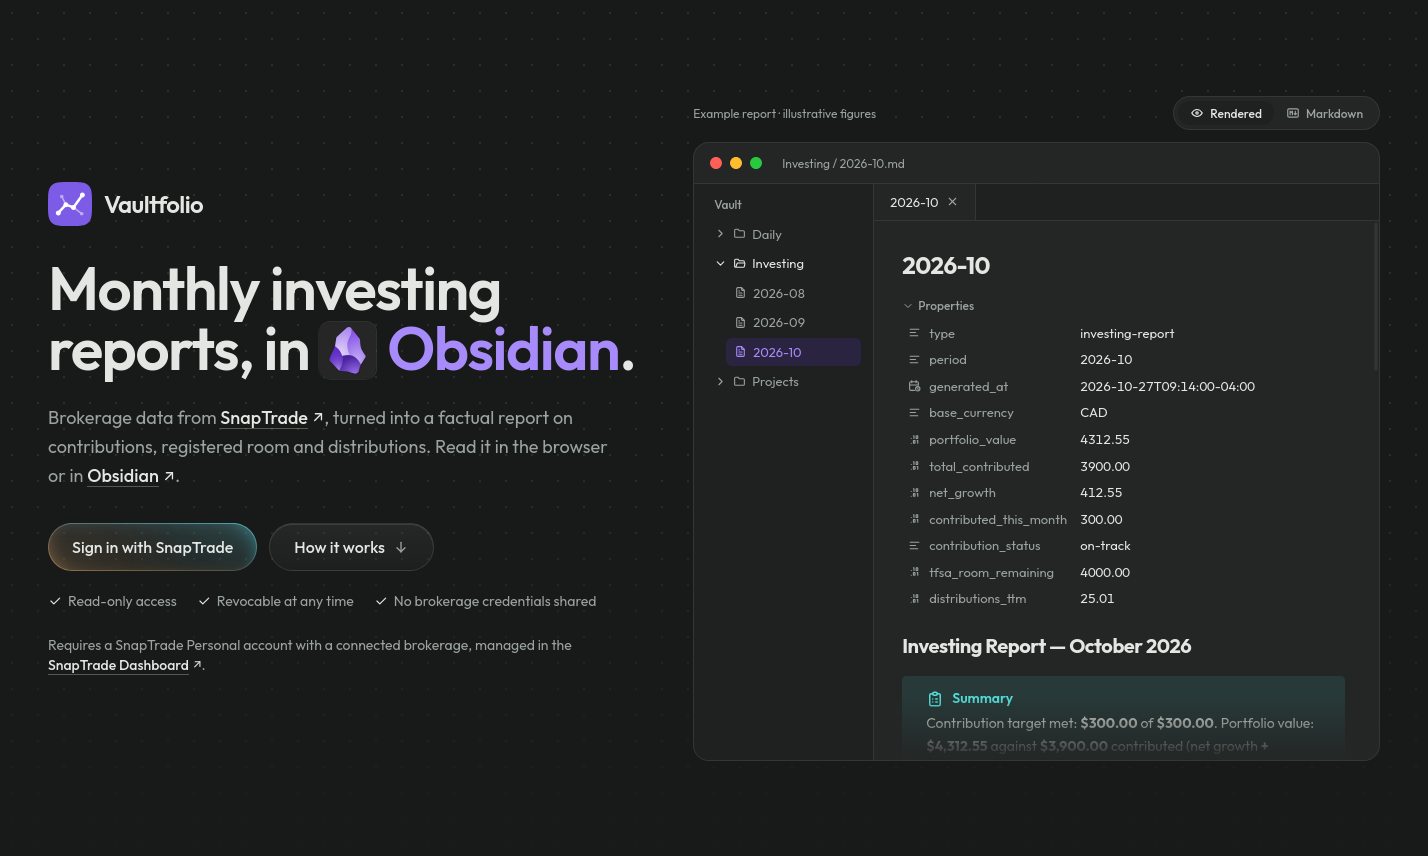
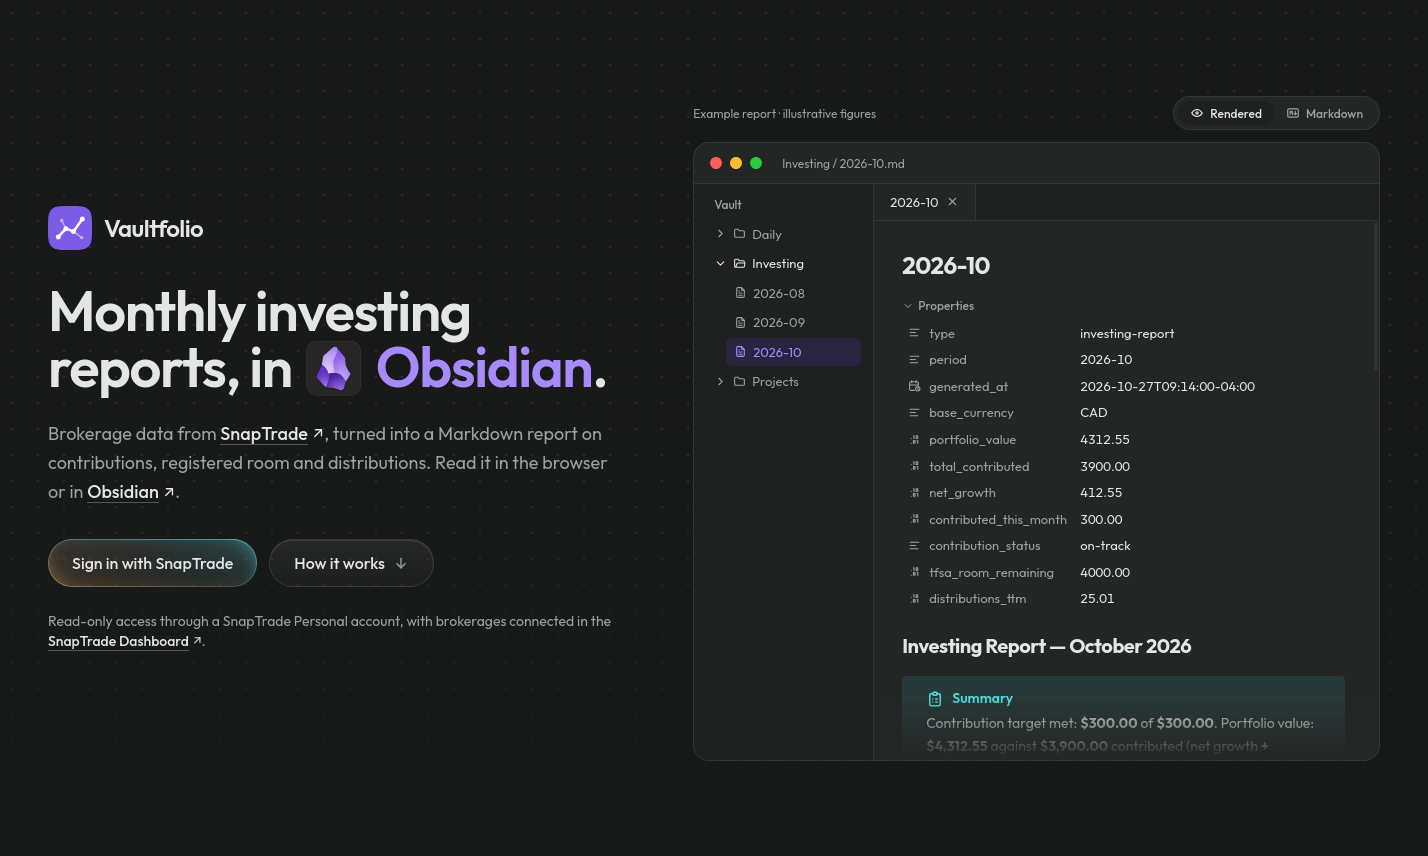
docs: rewrite readme and polish landing hero

Changed region(s): [[0.0308, 0.486, 0.4314, 0.7897], [0.0308, 0.2126, 0.4314, 0.4556]]

diff --git a/src/app/(site)/page.tsx b/src/app/(site)/page.tsx
@@ -6,7 +6,6 @@ import {
   TbArrowRight,
   TbBuildingBank,
   TbCalendarCheck,
-  TbCheck,
   TbCoins,
   TbEyeCheck,
   TbFileAnalytics,
@@ -186,30 +185,16 @@ function IconBadge({ Icon }: { Icon: IconType }) {
 // app), so the actions are always the signed-out ones.
 function HeroButtons() {
   return (
-    <>
-      <div className="mt-8 flex flex-wrap items-center justify-center gap-3 lg:justify-start">
-        <SignInLink />
-        <a href="#how-it-works" className={`group ${large(buttonGlass)}`}>
-          How it works
-          <TbArrowDown
-            aria-hidden
-            className="text-muted transition-transform group-hover:translate-y-0.5 motion-reduce:transition-none"
-          />
-        </a>
-      </div>
-      <ul className="mt-5 flex flex-wrap justify-center gap-x-5 gap-y-2 text-sm text-muted lg:justify-start">
-        {[
-          "Read-only access",
-          "Revocable at any time",
-          "No brokerage credentials shared",
-        ].map((point) => (
-          <li key={point} className="inline-flex items-center gap-1.5">
-            <TbCheck aria-hidden className="text-foreground" />
-            {point}
-          </li>
-        ))}
-      </ul>
-    </>
+    <div className="mt-8 flex flex-wrap items-center justify-center gap-3 lg:justify-start">
+      <SignInLink />
+      <a href="#how-it-works" className={`group ${large(buttonGlass)}`}>
+        How it works
+        <TbArrowDown
+          aria-hidden
+          className="text-muted transition-transform group-hover:translate-y-0.5 motion-reduce:transition-none"
+        />
+      </a>
+    </div>
   );
 }
 
@@ -258,7 +243,7 @@ export default function Home({ searchParams }: PageProps<"/">) {
                 Vaultfolio
               </span>
             </p>
-            <h1 className="animate-rise motion-reduce:animate-none [animation-delay:80ms] text-4xl font-semibold tracking-tight text-balance sm:text-5xl xl:text-6xl">
+            <h1 className="animate-rise motion-reduce:animate-none [animation-delay:80ms] text-4xl font-semibold tracking-tight text-balance sm:text-5xl xl:text-[3.5rem]">
               Monthly investing reports, in{" "}
               {/* Obsidian's app icon, exported unmodified from obsidian.md. */}
               <span className="whitespace-nowrap">
@@ -269,7 +254,7 @@ export default function Home({ searchParams }: PageProps<"/">) {
                   height={512}
                   unoptimized
                   loading="eager"
-                  className="mr-[0.18em] inline-block size-[0.95em] rounded-[19.5%] align-[-0.14em] ring-1 ring-white/10"
+                  className="mr-[0.28em] ml-[0.1em] inline-block size-[0.95em] rounded-[19.5%] align-[-0.14em] ring-1 ring-white/10"
                 />
                 <span className="text-accent">Obsidian</span>.
               </span>
@@ -277,8 +262,8 @@ export default function Home({ searchParams }: PageProps<"/">) {
             <p className="mx-auto mt-6 max-w-xl animate-rise motion-reduce:animate-none [animation-delay:160ms] text-lg leading-relaxed text-muted lg:mx-0">
               Brokerage data from{" "}
               <ExternalLink href={SNAPTRADE_SITE_URL}>SnapTrade</ExternalLink>,
-              turned into a factual report on contributions, registered room and
-              distributions. Read it in the browser or in{" "}
+              turned into a Markdown report on contributions, registered room
+              and distributions. Read it in the browser or in{" "}
               <ExternalLink href={OBSIDIAN_SITE_URL}>Obsidian</ExternalLink>.
             </p>
 
@@ -290,8 +275,8 @@ export default function Home({ searchParams }: PageProps<"/">) {
             </div>
 
             <p className="mx-auto mt-6 max-w-xl animate-rise motion-reduce:animate-none [animation-delay:320ms] text-sm text-muted lg:mx-0">
-              Requires a SnapTrade Personal account with a connected brokerage,
-              managed in the <SnapTradeLink />.
+              Read-only access through a SnapTrade Personal account, with
+              brokerages connected in the <SnapTradeLink />.
             </p>
           </div>
 

diff --git a/README.md b/README.md
@@ -1,43 +1,59 @@
-# Vaultfolio
+<p align="center">
+  <img src="src/app/icon.svg" width="88" alt="Vaultfolio logo">
+</p>
 
-Vaultfolio turns SnapTrade brokerage data into structured Markdown investing reports, viewable in the browser and synced into an Obsidian vault. It is a SnapTrade OAuth app: SnapTrade Personal users grant read-only access to their accounts.
+<h1 align="center">Vaultfolio</h1>
 
-Current status: SnapTrade sign-in, account overview, sign-out and disconnect (Phase 1). A full reviewer guide covering architecture, security decisions and tradeoffs follows in Phase 5.
+<p align="center">
+  <strong>Your investments, one Markdown note a month.</strong><br>
+  Brokerage data from <a href="https://snaptrade.com">SnapTrade</a>, turned into a clear monthly report in Markdown. Read it in the browser or sync it into <a href="https://obsidian.md">Obsidian</a>.
+</p>
 
-## Requirements
+![Vaultfolio landing page with an example report open in an Obsidian window](docs/images/landing.png)
 
-- Node.js 24 or later
-- A Neon Postgres database (a separate branch for local development)
-- A SnapTrade OAuth app with these redirect URIs registered exactly:
-  - `http://127.0.0.1:3000/oauth/snaptrade/callback`
-  - `https://<deployment>/oauth/snaptrade/callback`
+## What each report covers
 
-## Local setup
+- **This month:** deposits, purchases and distributions, plus progress toward a monthly contribution target.
+- **Growth:** total contributed against current value, in dollars.
+- **TFSA, RRSP and FHSA room:** contributions this year, room remaining, and a warning before going over.
+- **Distributions:** every payment over the past year, and an estimate for the next.
 
-1. Install dependencies: `npm install`
-2. Create `.env.local` from `.env.example` and set each value. `SESSION_SECRET` and `TOKEN_ENCRYPTION_KEY` are 32 random bytes each: `openssl rand -base64 32`.
-3. Apply the database migrations: `npm run db:migrate`
-4. Start the app: `npm run dev`, then open `http://127.0.0.1:3000`.
+Reports state facts and never recommend trades. Every setting is optional: a report is complete from the first sign-in, and settings only add detail.
 
-The app is served on `127.0.0.1`, not `localhost`. Cookies are host-specific, so a callback that arrives on a different host than the sign-in started from fails the state check.
+## Get started
 
-## Scripts
+1. Open [Vaultfolio](https://DEPLOYMENT.vercel.app) and choose **Sign in with SnapTrade**.
+2. Approve read-only access in SnapTrade. A SnapTrade Personal account with at least one connected brokerage is needed; every connected brokerage is included.
+3. Open **Reports**. Each month can be copied as Markdown, or a whole year downloaded as a zip.
 
-| Script                | Purpose                                            |
-| --------------------- | -------------------------------------------------- |
-| `npm run dev`         | Development server on 127.0.0.1:3000               |
-| `npm run build`       | Production build                                   |
-| `npm run check`       | Formatting check, lint, type check and tests       |
-| `npm test`            | Unit tests (Vitest)                                |
-| `npm run db:generate` | SQL migration from changes to `src/db/schema.ts`   |
-| `npm run db:migrate`  | Apply migrations to the database in `DATABASE_URL` |
+## Obsidian
 
-## Deployment (Vercel)
+1. Download the plugin from Vaultfolio and unzip it into the vault's `.obsidian/plugins/` folder.
+2. Enable **Vaultfolio** under Settings → Community plugins, then choose **Connect**.
+3. Reports appear in `Investing/` and update on startup or with **Vaultfolio: Sync now**.
 
-- Neon is added through the Vercel Marketplace, which sets `DATABASE_URL`.
-- The remaining variables from `.env.example` are set in Project Settings → Environment Variables, with values different from local development.
-- Migrations run manually against the production database (`npm run db:migrate` with the production `DATABASE_URL`), not during the build.
+Each report starts with frontmatter (`portfolio_value`, `tfsa_room_remaining` and more), ready for Dataview queries.
 
-## Known issues
+## Good to know
 
-- `npm audit` reports moderate advisories in `esbuild` through `drizzle-kit`. The advisory affects esbuild's development server, which drizzle-kit does not start, and drizzle-kit is a development-only tool that is not deployed.
+- **Read-only.** Vaultfolio cannot place trades, and brokerage passwords never reach it.
+- **Nothing stored.** Reports are built on request from live data. [SECURITY.md](SECURITY.md) covers how access is protected.
+- **No currency conversion.** Amounts in different currencies are kept separate rather than converted.
+- **One day behind.** SnapTrade syncs transactions once a day, so the latest day may not appear yet.
+
+## Run it locally
+
+Requires Node.js 24, a Postgres database (Neon) and a SnapTrade OAuth app with `http://127.0.0.1:3000/oauth/snaptrade/callback` registered.
+
+```bash
+npm install
+cp .env.example .env.local   # then fill in each value
+npm run db:migrate
+npm run dev                  # http://127.0.0.1:3000
+```
+
+Use `127.0.0.1`, not `localhost`, so the sign-in cookie matches the callback. `npm run check` runs formatting, lint, type checking and tests. Setting `VAULTFOLIO_MOCK_DATA=full` in `.env.local` replaces SnapTrade data with generated accounts for testing (also `us`, `sandbox` or `empty`); production builds ignore it.
+
+---
+
+<p align="center"><sub>Open source under the <a href="LICENSE">MIT License</a>. For information only. Not financial advice.</sub></p>

diff --git a/SECURITY.md b/SECURITY.md
@@ -1,0 +1,62 @@
+# Security
+
+Vaultfolio reads brokerage data on a user's behalf, so it is built to hold as little as possible and to protect what it does hold.
+
+## In short
+
+- **Read-only.** Vaultfolio asks SnapTrade only for `openid email read`. It has no trade access and calls no order endpoints.
+- **No brokerage passwords.** Brokerages connect through SnapTrade; Vaultfolio never sees their credentials.
+- **No brokerage data stored.** Reports are generated on request. The database holds only the account identity, encrypted SnapTrade tokens, settings, and hashed session and plugin tokens.
+- **Secrets stay on the server.** The client secret and SnapTrade tokens never reach the browser or the Obsidian plugin.
+- **Access can be removed at any time.** Disconnect revokes the SnapTrade grant, signs out every session and unlinks every vault.
+
+## Sign-in
+
+Sign-in uses SnapTrade's OAuth authorization code flow with PKCE.
+
+- **PKCE (S256):** an intercepted authorization code cannot be exchanged without the matching verifier.
+- **`state`:** checked at the callback, so a sign-in the browser did not start is rejected (login CSRF).
+- **`nonce`:** required in the ID token, so a token from another sign-in cannot be replayed.
+- **Flow cookie:** `state`, the verifier and `nonce` are kept in an encrypted, httpOnly cookie that lasts 10 minutes, is sent only to the callback, and is deleted after one use.
+- **ID token:** verified with `jose` (RS256 signature from SnapTrade's published keys, plus issuer, audience, expiry and nonce). Users are identified by `sub`, and an email is used only when it is verified.
+- **Issuer checks:** endpoints come from SnapTrade's discovery document with the issuer pinned, and the callback's `iss` is checked (RFC 9207), which prevents identity-provider mix-up.
+
+## Sessions
+
+- The session cookie holds a random token; only its SHA-256 hash is stored, so a database leak gives no usable sessions.
+- A fresh session is issued at every sign-in (prevents session fixation).
+- The cookie is `__Host-` prefixed, httpOnly, Secure and SameSite=Lax.
+- Every page and route checks the session itself, not only middleware.
+- Sign-out and disconnect check the request's `Origin` (prevents cross-site requests).
+- Pages can't be framed (prevents clickjacking), OAuth codes are kept out of `Referer`, and financial pages are not cached.
+
+## SnapTrade tokens
+
+- **Encrypted at rest** with AES-256-GCM, a fresh IV each time, and the user and field bound to each value, so a ciphertext moved to another row fails to decrypt.
+- **Refresh-token rotation** happens under a database row lock, so two simultaneous refreshes cannot spend the same token and end the grant.
+- **On a 401**, the token is refreshed and the request retried once; if that fails, the tokens are deleted and the user signs in again.
+- **Sent only to SnapTrade.** The API client refuses any host other than `api.snaptrade.com`.
+- **Revoked when replaced or disconnected.** Local tokens are deleted even if SnapTrade's revocation request fails.
+- **Never logged.** Logs record status codes and error types only, never response bodies, codes or tokens.
+
+## Obsidian plugin
+
+The plugin never holds SnapTrade tokens. It pairs with a short-lived, single-purpose token instead.
+
+- **Pairing works like PKCE.** The plugin keeps a random verifier in memory and opens Vaultfolio with its hash. The one-time code that comes back (valid 5 minutes) is useless without the verifier, and a wrong verifier burns it.
+- **Plugin tokens (`vfp_…`) can only download reports.** They are stored hashed, listed with their last use in Settings, revocable there or from the plugin, and revoked when SnapTrade is disconnected.
+- **Treated as low-trust.** Plugin settings live in the vault, which may be synced or committed to git, so nothing more sensitive is kept there.
+
+## Where to look
+
+| Area                                  | Code                                                                                     |
+| ------------------------------------- | ---------------------------------------------------------------------------------------- |
+| OAuth client, ID token checks         | `src/lib/snaptrade/oauth.ts`, `src/lib/snaptrade/discovery.ts`                           |
+| Callback, flow cookie                 | `src/lib/auth/callback.ts`, `src/lib/auth/flow-cookie.ts`                                |
+| Sessions, request checks              | `src/lib/auth/session.ts`, `src/lib/auth/http.ts`, `next.config.ts`                      |
+| Token encryption, refresh, revocation | `src/lib/crypto/aes-gcm.ts`, `src/lib/snaptrade/tokens.ts`, `src/lib/snaptrade/grant.ts` |
+| Plugin pairing                        | `src/lib/auth/plugin.ts`, `obsidian-plugin/src/pkce.ts`                                  |
+
+## Reporting a vulnerability
+
+Please report security issues privately to the maintainer rather than in a public issue.
